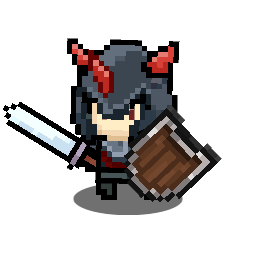
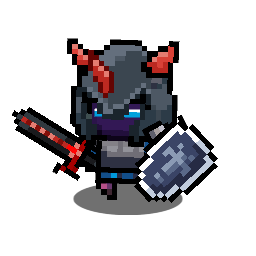
fix: dark_knight uses human_16 (red-horn cape) + full-color hero in opening & curse anim
Three coordinated changes to make the legendary hero match the
red-horned + caped + wooden-shield knight Jackson identified:

1. SPUMBaker.cs swaps champ_dark_knight <-> champ_skull_warrior
   source prefabs. dark_knight now bakes from human_16
   (SPUM_20240911215639662) — the human-form knight with red-horn
   helmet, cape, and wooden shield. skull_warrior takes over the
   previous devil_06 sprite (purple skin + grey X-pattern shield),
   which still fits its name.

2. BuildOpeningHeroShown swaps the abstract "silhouette" UI sprite
   for the dark_knight composite — the player now sees the actual
   hero in full color instead of a faded shadow, giving visual
   continuity with the shop set and the curse cinematic.

3. CurseAnim pre-swap branch renders the dark_knight composite
   directly (bypassing ApplyAvatarLook's race-form path) so the
   "hero before the curse" is the same figure shown one beat
   earlier in OpeningHeroShown. Post-swap stays on the cursed-form
   route untouched.

Re-baked all 6 dark_knight + 6 skull_warrior piece sprites and both
set composites via SPUMBaker.BakeShopSetsBatch.

Changed region(s): [[0.0, 0.375, 0.875, 0.8125], [0.2812, 0.4688, 0.3125, 0.5]]

diff --git a/Assets/_Game/Scripts/Presentation/Hud.cs b/Assets/_Game/Scripts/Presentation/Hud.cs
@@ -667,9 +667,12 @@ namespace Gamex.Game
             btn.transition = Selectable.Transition.None;
             btn.onClick.AddListener(() => _onTapAdvanceOpening?.Invoke());
 
+            // Show the legendary hero as the dark_knight composite (full color,
+            // not a silhouette) — sets up visual continuity with the CurseAnim
+            // pre-curse hero and the dark_knight set in the shop.
             MkSpriteIcon("HeroSilhouette", _openingHeroShownPanel.transform,
                 new Vector2(0.5f, 0.5f), Vector2.zero, new Vector2(640f, 640f),
-                "silhouette", Color.white);
+                Make.SetPreview("champ_dark_knight"), Color.white);
 
             MkText("Hint", _openingHeroShownPanel.transform, new Vector2(0.5f, 0f), new Vector2(0f, 120f),
                 new Vector2(800f, 50f), FS_BODY, TextAnchor.LowerCenter, TextDim).text = "(tap to continue)";
@@ -1809,11 +1812,39 @@ namespace Gamex.Game
                 dc.a = Mathf.Lerp(0f, 0.7f, _curseAnimT / CURSE_ANIM_DURATION);
                 _curseAnimDim.color = dc;
 
-                // sprite: hero (stage 5) before swap, cursed (stage 0 of chosen curse) after
-                ApplyAvatarLook(_curseAnimAvatar, safeGender,
-                                swapped ? (curse == Curse.Unset ? Curse.Weakness : curse) : Curse.Unset,
-                                Race.Unset,
-                                swapped ? 0 : 5);
+                // sprite: hero (dark_knight composite, full color) before swap,
+                // cursed (stage 0 of chosen curse) after. Pre-swap bypasses
+                // ApplyAvatarLook's race-form path because we want the
+                // legendary hero rendered as the dark_knight set — same image
+                // the OpeningHeroShown panel uses, so the curse "shatters" the
+                // exact same hero the player just saw.
+                if (swapped)
+                {
+                    ApplyAvatarLook(_curseAnimAvatar, safeGender,
+                                    curse == Curse.Unset ? Curse.Weakness : curse,
+                                    Race.Unset, 0);
+                }
+                else
+                {
+                    var heroSprite = Make.SetPreview("champ_dark_knight");
+                    if (heroSprite != null)
+                    {
+                        _curseAnimAvatar.portrait.sprite = heroSprite;
+                        float a = _curseAnimAvatar.portrait.color.a;
+                        _curseAnimAvatar.portrait.color = new Color(1f, 1f, 1f, a);
+                        SetOverlay(_curseAnimAvatar.sword,     null, a);
+                        SetOverlay(_curseAnimAvatar.armor,     null, a);
+                        SetOverlay(_curseAnimAvatar.helmet,    null, a);
+                        SetOverlay(_curseAnimAvatar.leggings,  null, a);
+                        SetOverlay(_curseAnimAvatar.gauntlets, null, a);
+                        SetOverlay(_curseAnimAvatar.boots,     null, a);
+                    }
+                    else
+                    {
+                        // Fallback if composite isn't baked yet.
+                        ApplyAvatarLook(_curseAnimAvatar, safeGender, Curse.Unset, Race.Unset, 5);
+                    }
+                }
 
                 if (_curseAnimT >= CURSE_ANIM_DURATION) _onCurseAnimDone?.Invoke();
             }

diff --git a/Assets/_Game/Scripts/Editor/SPUMBaker.cs b/Assets/_Game/Scripts/Editor/SPUMBaker.cs
@@ -172,8 +172,8 @@ namespace Gamex.EditorTools
         {
             { "elf_paladin",            "Assets/SPUM/Resources/Addons/BasicPack/2_Prefab/Elf/SPUM_20240911222346858.prefab" },     // elf_07
             // Phase 5b — 3 Elite ("最帅") sets
-            { "champ_dark_knight",      "Assets/SPUM/Resources/Addons/BasicPack/2_Prefab/Devil/SPUM_20240911215640719.prefab" },  // devil_06
-            { "champ_skull_warrior",    "Assets/SPUM/Resources/Addons/BasicPack/2_Prefab/Human/SPUM_20240911215639662.prefab" },  // human_16
+            { "champ_dark_knight",      "Assets/SPUM/Resources/Addons/BasicPack/2_Prefab/Human/SPUM_20240911215639662.prefab" },  // human_16 — red-horned helm + cape + wooden shield
+            { "champ_skull_warrior",    "Assets/SPUM/Resources/Addons/BasicPack/2_Prefab/Devil/SPUM_20240911215640719.prefab" },  // devil_06 — purple-skinned + grey X-pattern shield
             { "champ_crimson_warrior",  "Assets/SPUM/Resources/Addons/BasicPack/2_Prefab/Human/SPUM_20240911215638389.prefab" },  // human_01
             // Phase 5b — 5 Veteran ("中等") sets
             { "champ_silver_hood",      "Assets/SPUM/Resources/Addons/BasicPack/2_Prefab/Human/SPUM_20240911215638814.prefab" },  // human_06
